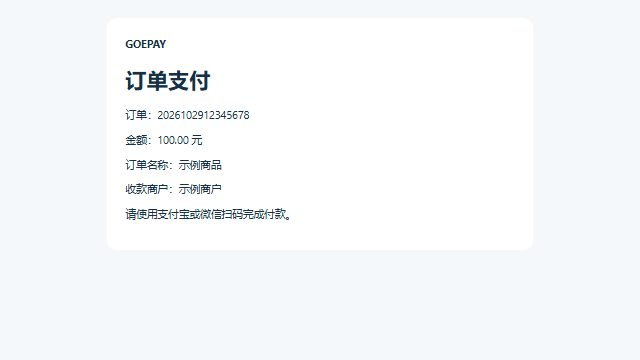
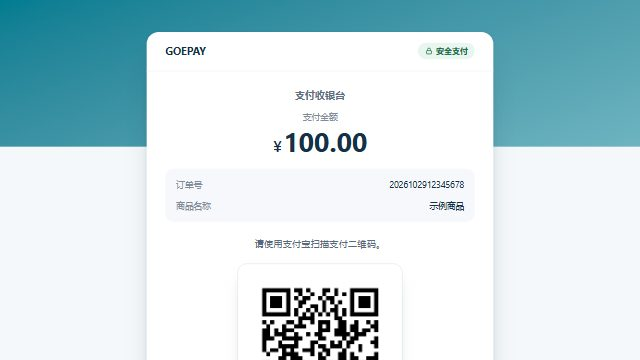
Pay and collection page templates: redesign; template config opens on 首页模板
支付页、聚合收款页模板重新设计（默认、紧凑两种）：顶部品牌栏和"安全支付"标记，大号金额，订单号/商品名称放进信息框；二维码、继续支付链接、支付按钮、收银台单选列表、收款金额输入框和下拉框都按新样式显示。默认款有主题色顶部色带和居中卡片，紧凑款更窄、顶部是主题色细条、金额一行显示。按钮文字颜色按对比度自动选择，手机宽度下卡片铺满屏幕。Open/Close 的用法不变，各支付页面无需改动；运营方文字仍全部转义。后台预览改用接近真实的演示内容（内嵌 SVG 演示二维码、不可点击的金额表单），仍然没有表单、按钮和脚本。预览截图已重新生成。模板配置默认打开"首页模板"页签。

diff --git a/web/tests/page-template-console.test.ts b/web/tests/page-template-console.test.ts
@@ -22,7 +22,7 @@ it("loads the typed template API for own super only and never generic template C
     },
   });
   await flushPromises();
-  expect(request.mock.calls[0]?.[0]).toBe("/templates?type=pay");
+  expect(request.mock.calls[0]?.[0]).toBe("/templates?type=home");
   w.unmount();
   for (const p of [
     { adminClass: "operator", ownSession: true },
@@ -72,6 +72,12 @@ it("preserves per-kind fields and rejects directory/config revision races before
         ownSession: true,
       },
     });
+    await flushPromises();
+    // The page opens on 首页模板; this case is about the pay kind.
+    await w
+      .findAll("nav.template-tabs button")
+      .find((b) => b.text() === "支付页模板")!
+      .trigger("click");
     await flushPromises();
     expect(w.find("form").exists()).toBe(false);
     expect(w.find("[role=alert]").exists()).toBe(true);
@@ -144,6 +150,12 @@ it("shows each template's preview picture on its card", async () => {
     },
   });
   await flushPromises();
+  // The page opens on 首页模板; switch to the pay kind this mock serves.
+  await w
+    .findAll("nav.template-tabs button")
+    .find((b) => b.text() === "支付页模板")!
+    .trigger("click");
+  await flushPromises();
   expect(
     w.findAll("img.template-thumb").map((i) => i.attributes("src")),
   ).toEqual([
@@ -167,5 +179,45 @@ it("shows each template's preview picture on its card", async () => {
   expect(request.mock.calls.every((c) => !String(c[0]).includes("/select"))).toBe(
     true,
   );
+  w.unmount();
+});
+
+
+it("opens on the 首页模板 tab", async () => {
+  const names = ["default", ...Array.from({ length: 10 }, (_, n) => `index${n + 1}`), "minimal"];
+  const request = vi.fn(async (path: string) =>
+    path.includes("?")
+      ? {
+          type: "home",
+          revision: "0",
+          selected: "default",
+          items: names.map((name) => ({ name, title: name, description: "本地" })),
+        }
+      : {
+          type: "home",
+          name: "default",
+          revision: "0",
+          config: {
+            brand_name: "Local",
+            notice: "",
+            accent_color: "#007c91",
+            background_color: "#f4f8fa",
+            logo_asset_id: "",
+            density: "comfortable",
+          },
+          fields: [],
+        },
+  );
+  const w = mount(TemplatePage, {
+    props: {
+      client: Object.assign(new ApiClient("admin"), { request }),
+      adminClass: "super",
+      ownSession: true,
+    },
+  });
+  await flushPromises();
+  const pressed = w.find('nav.template-tabs button[aria-pressed="true"]');
+  expect(pressed.text()).toBe("首页模板");
+  expect(w.findAll("img.template-thumb").length).toBe(12);
   w.unmount();
 });

diff --git a/web/e2e/live-template-printing.spec.ts b/web/e2e/live-template-printing.spec.ts
@@ -32,6 +32,8 @@ test("live Docker templates render in the protected iframe and both printing set
   await expect(
     page.getByRole("heading", { name: "模板配置", exact: true, level: 2 }),
   ).toBeVisible();
+  // The page opens on 首页模板; the checks below are about the pay frame.
+  await page.getByRole("button", { name: "支付页模板", exact: true }).click();
   await page
     .getByRole("button", { name: "预览已保存配置", exact: true })
     .click();

diff --git a/web/src/components/TemplatePage.vue b/web/src/components/TemplatePage.vue
@@ -25,7 +25,7 @@ const allowed = computed(
     props.ownSession &&
     props.client.area === "admin",
 );
-const kind = ref<TemplateKind>("pay"),
+const kind = ref<TemplateKind>("home"),
   catalog = ref<TemplateList | null>(null),
   view = ref<TemplateConfigView | null>(null),
   draft = ref<Record<string, string | boolean>>({});

diff --git a/internal/pagetemplate/render.go b/internal/pagetemplate/render.go
@@ -4,7 +4,16 @@ import (
 	"encoding/json"
 	"html/template"
 	"io"
+	"strconv"
+	"strings"
+	"unicode"
 )
+
+// The pay and qrpay frames. Open writes everything up to the page content;
+// the checkout, cashier, mini-launch and collection handlers then write their
+// own content (paragraphs, the QR picture, a jump link or button, a form) into
+// <main> and close it. The CSS below therefore styles those plain elements as
+// they arrive: no handler has to know the template.
 
 type frame struct {
 	Resolved
@@ -12,9 +21,89 @@ type frame struct {
 	Width, Padding int
 	LogoURL        string
 	TextColor      string
+	CSS            template.CSS
+	Initial        string
 }
 
-var opening = template.Must(template.New("page-open").Parse(`<!doctype html><html lang="zh-CN"><meta charset="utf-8"><meta name="viewport" content="width=device-width,initial-scale=1">{{if .Page.Keywords}}<meta name="keywords" content="{{.Page.Keywords}}">{{end}}{{if .Page.Description}}<meta name="description" content="{{.Page.Description}}">{{end}}<title>{{.Page.Title}}</title><style>body{font:16px system-ui,sans-serif;margin:0;background:{{.Config.BackgroundColor}};color:{{.TextColor}}}main{box-sizing:border-box;max-width:{{.Width}}px;margin:5vh auto;padding:{{.Padding}}px;background:#fff;border-radius:16px;overflow-wrap:anywhere}button,a{color:{{.Config.AccentColor}}}button,input,select{box-sizing:border-box;max-width:100%;padding:12px;font:inherit}label,input,select,button{display:block;margin:12px 0}img{max-width:100%;height:auto}.template-brand{display:flex;align-items:center;gap:12px}.template-logo{width:56px;height:56px;object-fit:contain}.template-brand-name{font-weight:700}.template-notice{white-space:pre-wrap;color:#425569;font-size:14px}.template-preview-note{border:1px solid #b36c00;padding:12px}.template-compact{border-top:5px solid {{.Config.AccentColor}}}@media(max-width:480px){main{margin:0;border-radius:0;min-height:100vh}}</style><body data-template="{{.Name}}" data-template-type="{{.Type}}"><main class="template-{{.Name}}"><header class="template-brand">{{if .LogoURL}}<img class="template-logo" alt="品牌图片" src="{{.LogoURL}}">{{end}}<span class="template-brand-name">{{.Config.BrandName}}</span></header><h1>{{.Page.Title}}</h1>{{if .Preview}}<p class="template-preview-note">仅为模板预览，不发起支付。</p>{{end}}{{if .Config.Notice}}<p class="template-notice">{{.Config.Notice}}</p>{{end}}{{if .TradeNo}}<p>订单：{{.TradeNo}}</p>{{end}}{{if .Amount}}<p>金额：{{.Amount}} 元</p>{{end}}{{if and .Config.ShowOrderName .OrderName}}<p>订单名称：{{.OrderName}}</p>{{end}}{{if .MerchantName}}<p>收款商户：{{.MerchantName}}</p>{{end}}{{if .Sandbox}}<p>本地模拟环境，不涉及真实资金。</p>{{end}}`))
+// $ACCENT, $ONACCENT, $BG, $FG, $WIDTH and $PAD are replaced with validated
+// values at render time; $ONACCENT is picked for contrast on $ACCENT.
+const frameBaseCSS = `*{box-sizing:border-box}
+body{margin:0;min-height:100vh;font:15px/1.6 system-ui,-apple-system,"Segoe UI","PingFang SC","Microsoft YaHei",sans-serif;background:$BG;color:$FG;overflow-wrap:anywhere}
+.template-band{position:absolute;inset:0 0 auto 0;height:220px;background:linear-gradient(160deg,$ACCENT,color-mix(in srgb,$ACCENT 55%,$BG))}
+main{position:relative;max-width:$WIDTHpx;margin:48px auto 32px;padding:0 $PADpx $PADpx;background:#fff;border-radius:18px;box-shadow:0 24px 48px -28px rgb(15 35 60/.45),0 2px 6px rgb(15 35 60/.06)}
+.template-head{display:flex;align-items:center;justify-content:space-between;gap:12px;margin:0 -$PADpx;padding:16px $PADpx;border-bottom:1px solid #edf0f4}
+.template-brand{display:flex;align-items:center;gap:10px;min-width:0;font-weight:700;font-size:16px}
+.template-logo{width:auto;height:30px;max-width:120px;object-fit:contain}
+.template-brand-name{white-space:nowrap;overflow:hidden;text-overflow:ellipsis}
+.template-secure{display:inline-flex;align-items:center;gap:4px;flex:none;padding:3px 10px;border-radius:999px;background:#e8f6ef;color:#17663f;font-size:12px;font-weight:600}
+.template-secure svg{width:13px;height:13px}
+h1{margin:0;font-size:15px;font-weight:600;color:color-mix(in srgb,$FG 70%,#fff)}
+.template-summary{padding:24px 0 6px;text-align:center}
+.template-amount{margin:10px 0 18px}
+.template-amount span{display:block;font-size:13px;color:color-mix(in srgb,$FG 55%,#fff)}
+.template-amount strong{display:block;margin-top:4px;font-size:40px;line-height:1.15;font-weight:700;color:$FG;font-variant-numeric:tabular-nums}
+.template-amount small{margin-right:2px;font-size:24px;font-weight:600}
+.template-meta{display:grid;grid-template-columns:auto 1fr;gap:10px 16px;margin:0;padding:14px 16px;border-radius:12px;background:#f6f8fb;font-size:13px;text-align:left}
+.template-meta dt{color:color-mix(in srgb,$FG 55%,#fff)}
+.template-meta dd{margin:0;text-align:right;word-break:break-all;font-variant-numeric:tabular-nums}
+.template-payee{padding:26px 0 8px;text-align:center}
+.template-avatar{display:inline-grid;place-content:center;width:60px;height:60px;margin-bottom:12px;border-radius:50%;background:$ACCENT;color:$ONACCENT;font-size:26px;font-weight:700;box-shadow:0 8px 20px -10px $ACCENT}
+.template-payee h1{font-size:19px;color:$FG}
+.template-payee-name{margin:6px 0 0;font-size:13px;color:color-mix(in srgb,$FG 55%,#fff)}
+.template-notice{margin:16px 0 0;padding:10px 12px;border-left:3px solid $ACCENT;border-radius:8px;background:color-mix(in srgb,$ACCENT 7%,#fff);font-size:13px;white-space:pre-wrap}
+.template-preview-note{margin:16px 0 0;padding:10px 12px;border:1px dashed #c98a1a;border-radius:8px;background:#fff8ea;color:#7a4b00;font-size:13px;text-align:center}
+.template-sandbox{width:max-content;max-width:100%;margin:14px auto 0;padding:3px 12px;border-radius:999px;background:#fff4e5;color:#7a4b00;font-size:12px}
+main>p{margin:14px 0;font-size:14px;line-height:1.7;text-align:center;color:color-mix(in srgb,$FG 72%,#fff)}
+main>img,main>svg{display:block;width:248px;height:248px;margin:18px auto 8px;padding:12px;background:#fff;border:1px solid #e3e8ef;border-radius:14px;box-shadow:0 10px 24px -18px rgb(15 35 60/.6)}
+main>a,main button{display:flex;align-items:center;justify-content:center;width:100%;min-height:46px;margin:18px 0 6px;padding:12px 16px;border:0;border-radius:12px;background:$ACCENT;color:$ONACCENT;font-family:inherit;font-size:16px;font-weight:600;line-height:1.2;text-decoration:none;cursor:pointer;box-shadow:0 10px 20px -14px $ACCENT}
+main button:disabled{opacity:.6;cursor:not-allowed}
+main form{margin:18px 0 0}
+main fieldset{min-width:0;margin:0;padding:0;border:0}
+main legend{margin:0 0 10px;padding:0;font-size:13px;color:color-mix(in srgb,$FG 55%,#fff)}
+main label{display:block;margin:14px 0;font-size:13px;color:color-mix(in srgb,$FG 70%,#fff)}
+main fieldset label{display:flex;align-items:center;gap:10px;margin:8px 0;padding:13px 14px;border:1px solid #e3e8ef;border-radius:12px;font-size:15px;color:$FG;cursor:pointer}
+main fieldset label:has(input:checked){border-color:$ACCENT;background:color-mix(in srgb,$ACCENT 7%,#fff)}
+main input[type=radio]{width:18px;height:18px;margin:0;accent-color:$ACCENT}
+main input:not([type=radio]):not([type=hidden]),main select{display:block;width:100%;margin-top:6px;padding:11px 12px;border:1px solid #d5dce5;border-radius:12px;background:#fff;color:$FG;font:inherit;font-size:15px}
+main input:focus,main select:focus{border-color:$ACCENT;outline:2px solid color-mix(in srgb,$ACCENT 40%,transparent);outline-offset:1px}
+main input[name=amount]:not([type=radio]):not([type=hidden]){padding:14px 12px;font-size:28px;font-weight:700;text-align:center}
+main pre{margin:12px 0;padding:12px;border-radius:10px;background:#f6f8fb;font-size:12px;white-space:pre-wrap;word-break:break-all}
+.template-demo-label{display:block;margin:14px 0 6px;font-size:13px;color:color-mix(in srgb,$FG 70%,#fff)}
+.template-demo-input{display:block;padding:11px 12px;border:1px solid #d5dce5;border-radius:12px;font-size:15px;color:color-mix(in srgb,$FG 55%,#fff)}
+.template-demo-amount{padding:14px 12px;font-size:28px;font-weight:700;text-align:center;color:$FG}
+.template-demo-button{display:flex;align-items:center;justify-content:center;min-height:46px;margin:18px 0 6px;border-radius:12px;background:$ACCENT;color:$ONACCENT;font-size:16px;font-weight:600}
+@media(max-width:520px){.template-band{display:none}main{max-width:none;min-height:100vh;margin:0;border-radius:0;box-shadow:none}}
+`
+
+// The compact variant: a narrower card with a top accent rule instead of the
+// colour band, the amount on one line and a lighter order summary.
+const frameCompactCSS = `.template-compact{margin:5vh auto;border-top:4px solid $ACCENT;border-radius:14px}
+.template-compact .template-head{padding-bottom:6px;border-bottom:0}
+.template-compact .template-summary{padding:12px 0 4px;text-align:left}
+.template-compact .template-amount{display:flex;align-items:baseline;justify-content:space-between;margin:8px 0 14px;padding:0 0 12px;border-bottom:1px dashed #e3e8ef}
+.template-compact .template-amount strong{margin:0;font-size:30px}
+.template-compact .template-amount small{font-size:18px}
+.template-compact .template-meta{padding:0;background:none}
+.template-compact .template-payee{display:grid;grid-template-columns:auto 1fr;column-gap:14px;align-items:center;padding:14px 0 6px;text-align:left}
+.template-compact .template-avatar{grid-row:span 2;width:48px;height:48px;margin:0;font-size:20px}
+.template-compact .template-payee h1{font-size:17px}
+.template-compact .template-payee-name{margin:2px 0 0}
+@media(max-width:520px){.template-compact{margin:0;border-radius:0}}
+`
+
+const lockSVG = `<svg viewBox="0 0 24 24" fill="none" stroke="currentColor" stroke-width="2" aria-hidden="true"><rect x="5" y="11" width="14" height="9" rx="2"/><path d="M8 11V8a4 4 0 0 1 8 0v3"/></svg>`
+
+var opening = template.Must(template.New("page-open").Parse(`<!doctype html><html lang="zh-CN"><meta charset="utf-8"><meta name="viewport" content="width=device-width,initial-scale=1">{{if .Page.Keywords}}<meta name="keywords" content="{{.Page.Keywords}}">{{end}}{{if .Page.Description}}<meta name="description" content="{{.Page.Description}}">{{end}}<title>{{.Page.Title}}</title><style>{{.CSS}}</style><body data-template="{{.Name}}" data-template-type="{{.Type}}">{{if ne .Name "compact"}}<div class="template-band" aria-hidden="true"></div>{{end}}<main class="template-{{.Name}}"><header class="template-head"><span class="template-brand">{{if .LogoURL}}<img class="template-logo" alt="品牌图片" src="{{.LogoURL}}">{{end}}<span class="template-brand-name">{{.Config.BrandName}}</span></span><span class="template-secure">` + lockSVG + `安全支付</span></header>{{if eq .Type "qrpay"}}<section class="template-payee"><span class="template-avatar" aria-hidden="true">{{.Initial}}</span><h1>{{.Page.Title}}</h1>{{if .MerchantName}}<p class="template-payee-name">收款商户：{{.MerchantName}}</p>{{end}}</section>{{else}}<section class="template-summary"><h1>{{.Page.Title}}</h1>{{if .Amount}}<p class="template-amount"><span>支付金额</span><strong><small>¥</small>{{.Amount}}</strong></p>{{end}}{{if or .TradeNo (and .Config.ShowOrderName .OrderName) .MerchantName}}<dl class="template-meta">{{if .TradeNo}}<dt>订单号</dt><dd>{{.TradeNo}}</dd>{{end}}{{if and .Config.ShowOrderName .OrderName}}<dt>商品名称</dt><dd>{{.OrderName}}</dd>{{end}}{{if .MerchantName}}<dt>收款商户</dt><dd>{{.MerchantName}}</dd>{{end}}</dl>{{end}}</section>{{end}}{{if .Preview}}<p class="template-preview-note">仅为模板预览，不发起支付。</p>{{end}}{{if .Config.Notice}}<p class="template-notice">{{.Config.Notice}}</p>{{end}}{{if .Sandbox}}<p class="template-sandbox">本地模拟环境，不涉及真实资金。</p>{{end}}`))
+
+// initial is the first character of the payee shown in the qrpay avatar.
+func initial(names ...string) string {
+	for _, n := range names {
+		for _, r := range strings.TrimSpace(n) {
+			return string(unicode.ToUpper(r))
+		}
+	}
+	return "G"
+}
 
 func Open(w io.Writer, r Resolved, p Page) error {
 	if p.BrandName != "" {
@@ -26,7 +115,7 @@ func Open(w io.Writer, r Resolved, p Page) error {
 		return e
 	}
 	r.Config = cfg
-	f := frame{Resolved: r, Page: p, Width: 640, Padding: 28, TextColor: "#163047"}
+	f := frame{Resolved: r, Page: p, Width: 520, Padding: 28, TextColor: "#163047"}
 	if p.ForegroundColor != "" {
 		if !colorPattern.MatchString(p.ForegroundColor) {
 			return ErrInvalid
@@ -37,7 +126,7 @@ func Open(w io.Writer, r Resolved, p Page) error {
 		f.Width = 440
 	}
 	if cfg.Density == "compact" {
-		f.Padding = 16
+		f.Padding = 18
 	}
 	if cfg.LogoAssetID != "" {
 		if p.Preview {
@@ -52,6 +141,19 @@ func Open(w io.Writer, r Resolved, p Page) error {
 		}
 		f.LogoURL = "/static/img/logo.png"
 	}
+	f.Initial = initial(p.MerchantName, cfg.BrandName)
+	css := frameBaseCSS
+	if r.Name == "compact" {
+		css += frameCompactCSS
+	}
+	f.CSS = template.CSS(strings.NewReplacer(
+		"$ONACCENT", readable(cfg.AccentColor, "#ffffff", "#0b1220"),
+		"$ACCENT", cfg.AccentColor,
+		"$BG", cfg.BackgroundColor,
+		"$FG", f.TextColor,
+		"$WIDTH", strconv.Itoa(f.Width),
+		"$PAD", strconv.Itoa(f.Padding),
+	).Replace(css))
 	return opening.Execute(w, f)
 }
 func Close(w io.Writer) error { _, e := io.WriteString(w, "</main></body></html>"); return e }

diff --git a/internal/server/template_console.go b/internal/server/template_console.go
@@ -13,10 +13,44 @@ import (
 	"net/http"
 	"net/url"
 	"strconv"
+	"strings"
 	"time"
+
+	qrcode "github.com/skip2/go-qrcode"
 )
 
 var templateImageSlots = make(chan struct{}, 2)
+
+// templatePreviewBody is the demo content under a pay/qrpay template in the
+// console preview. It looks like the real page but is inert: no form, button,
+// script or external image (the QR code is inline SVG of a demo text).
+func templatePreviewBody(kind string) string {
+	if kind == "qrpay" {
+		return `<p>收款说明：模板演示</p><span class="template-demo-label">金额（元）</span><span class="template-demo-input template-demo-amount">0.00</span><span class="template-demo-label">支付方式</span><span class="template-demo-input">微信支付 / 支付宝</span><span class="template-demo-button">前往支付</span><p>演示材料：没有支付按钮，不创建订单。</p>`
+	}
+	return `<p>请使用支付宝或微信扫描支付二维码。</p>` + previewQRSVG("GOEPAY-TEMPLATE-PREVIEW") + `<p>演示材料：没有支付按钮，不创建订单。</p>`
+}
+
+// previewQRSVG draws a QR code of text as inline SVG modules.
+func previewQRSVG(text string) string {
+	q, e := qrcode.New(text, qrcode.Medium)
+	if e != nil {
+		return ""
+	}
+	q.DisableBorder = true
+	bm := q.Bitmap()
+	var b strings.Builder
+	fmt.Fprintf(&b, `<svg viewBox="0 0 %d %d" role="img" aria-label="演示二维码" shape-rendering="crispEdges"><path fill="#111" d="`, len(bm), len(bm))
+	for y, row := range bm {
+		for x, on := range row {
+			if on {
+				fmt.Fprintf(&b, "M%d %dh1v1h-1z", x, y)
+			}
+		}
+	}
+	b.WriteString(`"/></svg>`)
+	return b.String()
+}
 
 func templateFail(w http.ResponseWriter, e error) {
 	status, message := 500, "template service unavailable"
@@ -191,11 +225,15 @@ func (s *Server) templateConsole(w http.ResponseWriter, r *http.Request, role st
 				return true
 			}
 			var b bytes.Buffer
-			if e = pagetemplate.Open(&b, pagetemplate.Resolved{Type: v.Type, Name: v.Name, Revision: v.Revision, Config: cfg}, pagetemplate.Page{Title: "模板预览", TradeNo: "PREVIEW-ONLY", Amount: "1.00", OrderName: "模板演示订单", Preview: true}); e != nil {
+			page := pagetemplate.Page{Title: "支付收银台", TradeNo: "PREVIEW-ONLY", Amount: "1.00", OrderName: "模板演示订单", Preview: true}
+			if v.Type == "qrpay" {
+				page = pagetemplate.Page{Title: "向商户付款", MerchantName: "示例商户", Preview: true}
+			}
+			if e = pagetemplate.Open(&b, pagetemplate.Resolved{Type: v.Type, Name: v.Name, Revision: v.Revision, Config: cfg}, page); e != nil {
 				templateFail(w, e)
 				return true
 			}
-			io.WriteString(&b, "<p>演示材料：没有支付按钮，不创建订单。</p>")
+			io.WriteString(&b, templatePreviewBody(v.Type))
 			pagetemplate.Close(&b)
 			w.Header().Set("Content-Type", "text/html; charset=utf-8")
 			w.Header().Set("Cache-Control", "no-store")

diff --git a/internal/pagetemplate/preview_pages_test.go b/internal/pagetemplate/preview_pages_test.go
@@ -6,6 +6,8 @@ import (
 	"os"
 	"path/filepath"
 	"testing"
+
+	qrcode "github.com/skip2/go-qrcode"
 )
 
 // TestWriteTemplatePreviewPages writes every built-in template as a static
@@ -23,6 +25,9 @@ func TestWriteTemplatePreviewPages(t *testing.T) {
 	if dir == "" {
 		t.Skip("GOEPAY_TEMPLATE_PREVIEW_DIR not set")
 	}
+	if e := qrcode.WriteFile("https://pay.example.com/checkout/2026102912345678", qrcode.Medium, 320, filepath.Join(dir, "demo-qr.png")); e != nil {
+		t.Fatal(e)
+	}
 	for _, kind := range []string{"home", "pay", "qrpay"} {
 		list, e := Templates(kind)
 		if e != nil {
@@ -35,13 +40,13 @@ func TestWriteTemplatePreviewPages(t *testing.T) {
 			case "home":
 				e = RenderHome(&b, r, HomeData{SiteName: "GOEPAY", Title: v.Title, Org: "示例科技有限公司", Email: "support@example.com", QQ: "10001", TestOpen: true, RegistrationOpen: true})
 			case "pay":
-				if e = Open(&b, r, Page{Title: "订单支付", TradeNo: "2026102912345678", Amount: "100.00", OrderName: "示例商品", MerchantName: "示例商户"}); e == nil {
-					io.WriteString(&b, "<p>请使用支付宝或微信扫码完成付款。</p>")
+				if e = Open(&b, r, Page{Title: "支付收银台", TradeNo: "2026102912345678", Amount: "100.00", OrderName: "示例商品"}); e == nil {
+					io.WriteString(&b, `<p>请使用支付宝扫描支付二维码。</p><img width="320" height="320" alt="支付二维码" src="demo-qr.png"><p>请在有效期内完成付款，付款结果以平台确认为准。</p>`)
 					e = Close(&b)
 				}
 			default:
-				if e = Open(&b, r, Page{Title: "扫码付款", MerchantName: "示例商户"}); e == nil {
-					io.WriteString(&b, "<p>请输入付款金额，确认后完成付款。</p>")
+				if e = Open(&b, r, Page{Title: "向示例商户付款", MerchantName: "示例商户"}); e == nil {
+					io.WriteString(&b, `<p>收款说明：向示例商户付款</p><form method="post" action="#"><label>金额（元）<input name="amount" type="number" value="100.00"></label><label>支付方式<select name="type"><option>微信支付</option><option>支付宝</option></select></label><button type="submit">前往支付</button></form>`)
 					e = Close(&b)
 				}
 			}
